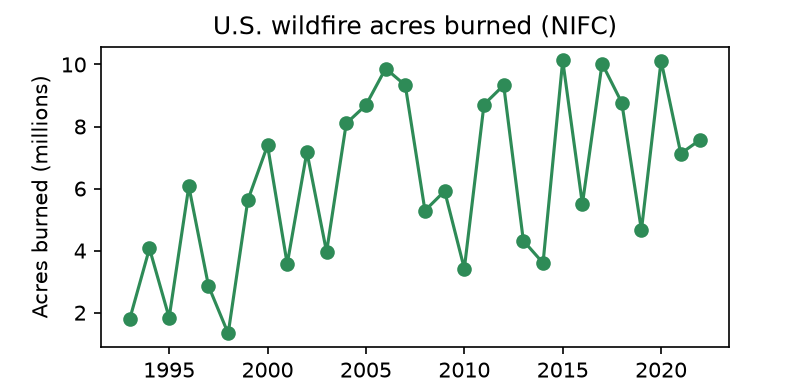
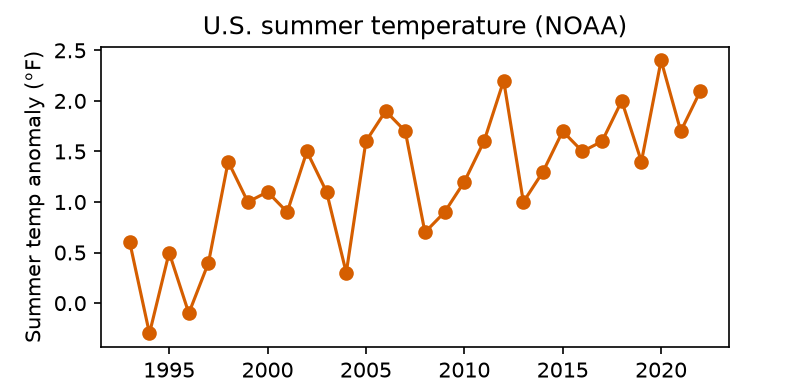
session 06 pm session

diff --git a/week-02-investigation-and-analysis/session-06-planning-a-study-deepening-lit-review/pm/06-pm-datacore.html b/week-02-investigation-and-analysis/session-06-planning-a-study-deepening-lit-review/pm/06-pm-datacore.html
@@ -70,11 +70,11 @@ class: segue-green
 .pull-left[
 .font90[
 **Describing** (what you did all week):
-- "Men earned **\$27.91/hr**, women **\$25.63/hr**."
+- "Men earned **&amp;dollar;27.91/hr**, women **&amp;dollar;25.63/hr**."
 - A fact about *this* sample. No argument yet.
 
 **Inferring** (today):
-- "Is that **\$2.28 gap real** in the wider world &amp;mdash; or just luck of who we sampled?"
+- "Is that **&amp;dollar;2.28 gap real** in the wider world &amp;mdash; or just luck of who we sampled?"
 - A *claim* that could be **wrong**, so we test it.
 ]
 ]
@@ -101,7 +101,7 @@ class: segue-green
 .content-box-green[
 .font80[
 **Confidence interval**&lt;br&gt;
-*"A plausible **range** for the true value."* "The gap is about \$2.30, give or take &amp;mdash; somewhere between \$1 and \$3.50." The range matters more than one number.
+*"A plausible **range** for the true value."* "The gap is about &amp;dollar;2.30, give or take &amp;mdash; somewhere between &amp;dollar;1 and &amp;dollar;3.50." The range matters more than one number.
 ]
 ]
 ]
@@ -116,7 +116,7 @@ Just means *"unlikely to be pure chance"* (small p). It does **NOT** mean big, i
 ]
 
 .content-box-red[
-.font85[<svg aria-hidden="true" role="img" viewBox="0 0 512 512" style="height:1em;width:1em;vertical-align:-0.125em;margin-left:auto;margin-right:auto;font-size:inherit;fill:#fff;overflow:visible;position:relative;"><path d="M256 32c14.2 0 27.3 7.5 34.5 19.8l216 368c7.3 12.4 7.3 27.7 .2 40.1S486.3 480 472 480H40c-14.3 0-27.6-7.7-34.7-20.1s-7-27.8 .2-40.1l216-368C228.7 39.5 241.8 32 256 32zm0 128c-13.3 0-24 10.7-24 24V296c0 13.3 10.7 24 24 24s24-10.7 24-24V184c0-13.3-10.7-24-24-24zm32 224a32 32 0 1 0 -64 0 32 32 0 1 0 64 0z"/></svg> &amp;nbsp; **"Significant" &amp;ne; "large" &amp;ne; "important."** With enough data, a trivial \$0.05 gap can be "significant." Always ask **how big**, not just *is it significant.*]
+.font85[<svg aria-hidden="true" role="img" viewBox="0 0 512 512" style="height:1em;width:1em;vertical-align:-0.125em;margin-left:auto;margin-right:auto;font-size:inherit;fill:#fff;overflow:visible;position:relative;"><path d="M256 32c14.2 0 27.3 7.5 34.5 19.8l216 368c7.3 12.4 7.3 27.7 .2 40.1S486.3 480 472 480H40c-14.3 0-27.6-7.7-34.7-20.1s-7-27.8 .2-40.1l216-368C228.7 39.5 241.8 32 256 32zm0 128c-13.3 0-24 10.7-24 24V296c0 13.3 10.7 24 24 24s24-10.7 24-24V184c0-13.3-10.7-24-24-24zm32 224a32 32 0 1 0 -64 0 32 32 0 1 0 64 0z"/></svg> &amp;nbsp; **"Significant" &amp;ne; "large" &amp;ne; "important."** With enough data, a trivial &amp;dollar;0.05 gap can be "significant." Always ask **how big**, not just *is it significant.*]
 ]
 
 ---
@@ -389,10 +389,33 @@ print(f"p-value:     {p_anova:.4g}")
 ```
 p-value:     1.048e-29
 ```
+]
+.panel[.panel-name[R (base)]
 
-``` python
-print()
+``` r
+*fit &lt;- aov(hourly_wage ~ education, data = wages)  # one-way ANOVA
+summary(fit)
 ```
+
+```
+             Df Sum Sq Mean Sq F value Pr(&gt;F)    
+education     3   3707  1235.6   64.17 &lt;2e-16 ***
+Residuals   216   4159    19.3                   
+---
+Signif. codes:  0 '***' 0.001 '**' 0.01 '*' 0.05 '.' 0.1 ' ' 1
+```
+]
+]
+
+.font80[<svg aria-hidden="true" role="img" viewBox="0 0 512 512" style="height:1em;width:1em;vertical-align:-0.125em;margin-left:auto;margin-right:auto;font-size:inherit;fill:#4a7fb5;overflow:visible;position:relative;"><path d="M256 512A256 256 0 1 0 256 0a256 256 0 1 0 0 512zM216 336h24V272H216c-13.3 0-24-10.7-24-24s10.7-24 24-24h48c13.3 0 24 10.7 24 24v88h8c13.3 0 24 10.7 24 24s-10.7 24-24 24H216c-13.3 0-24-10.7-24-24s10.7-24 24-24zm40-208a32 32 0 1 1 0 64 32 32 0 1 1 0-64z"/></svg> &amp;nbsp; A small p says *"at least one group differs"* &amp;mdash; **not which one.** Next: look at the group means. <svg aria-hidden="true" role="img" viewBox="0 0 448 512" style="height:1em;width:0.88em;vertical-align:-0.125em;margin-left:auto;margin-right:auto;font-size:inherit;fill:#2e8b57;overflow:visible;position:relative;"><path d="M438.6 278.6c12.5-12.5 12.5-32.8 0-45.3l-160-160c-12.5-12.5-32.8-12.5-45.3 0s-12.5 32.8 0 45.3L338.8 224 32 224c-17.7 0-32 14.3-32 32s14.3 32 32 32l306.7 0L233.4 393.4c-12.5 12.5-12.5 32.8 0 45.3s32.8 12.5 45.3 0l160-160z"/></svg>]
+
+---
+### <svg aria-hidden="true" role="img" viewBox="0 0 448 512" style="height:1em;width:0.88em;vertical-align:-0.125em;margin-left:auto;margin-right:auto;font-size:inherit;fill:#2e8b57;overflow:visible;position:relative;"><path d="M160 80c0-26.5 21.5-48 48-48h32c26.5 0 48 21.5 48 48V432c0 26.5-21.5 48-48 48H208c-26.5 0-48-21.5-48-48V80zM0 272c0-26.5 21.5-48 48-48H80c26.5 0 48 21.5 48 48V432c0 26.5-21.5 48-48 48H48c-26.5 0-48-21.5-48-48V272zM368 96h32c26.5 0 48 21.5 48 48V432c0 26.5-21.5 48-48 48H368c-26.5 0-48-21.5-48-48V144c0-26.5 21.5-48 48-48z"/></svg> .b[RcS] &amp;mdash; Which groups differ? Compare the means
+
+.font85[ANOVA told us *at least one* education level differs. To see **the pattern**, look at the mean hourly wage within each group.]
+
+.panelset[
+.panel[.panel-name[Python (scipy)]
 
 ``` python
 print(wages.groupby("education")["hourly_wage"].mean().round(2))
@@ -410,19 +433,6 @@ Name: hourly_wage, dtype: float64
 .panel[.panel-name[R (base)]
 
 ``` r
-*fit &lt;- aov(hourly_wage ~ education, data = wages)  # one-way ANOVA
-summary(fit)
-```
-
-```
-             Df Sum Sq Mean Sq F value Pr(&gt;F)    
-education     3   3707  1235.6   64.17 &lt;2e-16 ***
-Residuals   216   4159    19.3                   
----
-Signif. codes:  0 '***' 0.001 '**' 0.01 '*' 0.05 '.' 0.1 ' ' 1
-```
-
-``` r
 aggregate(hourly_wage ~ education, data = wages, FUN = mean)
 ```
 
@@ -436,7 +446,7 @@ aggregate(hourly_wage ~ education, data = wages, FUN = mean)
 ]
 ]
 
-.font80[<svg aria-hidden="true" role="img" viewBox="0 0 512 512" style="height:1em;width:1em;vertical-align:-0.125em;margin-left:auto;margin-right:auto;font-size:inherit;fill:#4a7fb5;overflow:visible;position:relative;"><path d="M256 512A256 256 0 1 0 256 0a256 256 0 1 0 0 512zM216 336h24V272H216c-13.3 0-24-10.7-24-24s10.7-24 24-24h48c13.3 0 24 10.7 24 24v88h8c13.3 0 24 10.7 24 24s-10.7 24-24 24H216c-13.3 0-24-10.7-24-24s10.7-24 24-24zm40-208a32 32 0 1 1 0 64 32 32 0 1 1 0-64z"/></svg> &amp;nbsp; A small p says *"at least one group differs"* &amp;mdash; **not which one.** Follow up by looking at the group means (the gradient by education is clear here).]
+.font80[<svg aria-hidden="true" role="img" viewBox="0 0 512 512" style="height:1em;width:1em;vertical-align:-0.125em;margin-left:auto;margin-right:auto;font-size:inherit;fill:#4a7fb5;overflow:visible;position:relative;"><path d="M256 512A256 256 0 1 0 256 0a256 256 0 1 0 0 512zM216 336h24V272H216c-13.3 0-24-10.7-24-24s10.7-24 24-24h48c13.3 0 24 10.7 24 24v88h8c13.3 0 24 10.7 24 24s-10.7 24-24 24H216c-13.3 0-24-10.7-24-24s10.7-24 24-24zm40-208a32 32 0 1 1 0 64 32 32 0 1 1 0-64z"/></svg> &amp;nbsp; The gradient by education is clear here &amp;mdash; average wage **rises with each education level.**]
 
 ---
 class: segue-green
@@ -461,11 +471,11 @@ class: segue-green
 .font85[
 **Write one sentence for a policy audience:**
 
-*"Group A earned \$\_\_ more than Group B. This difference **was / was not** statistically significant (p = \_\_), a **small / medium / large** effect."*
+*"Group A earned &amp;dollar;\_\_ more than Group B. This difference **was / was not** statistically significant (p = \_\_), a **small / medium / large** effect."*
 ]
 ]
 
-.center[<div class="countdown" id="timer_398d0742" data-warn-when="30" data-update-every="1" tabindex="0" style="right:0;bottom:0;font-size:2rem;position: relative; display: inline-block; margin: 0.4em auto;">
+.center[<div class="countdown" id="timer_688d596b" data-warn-when="30" data-update-every="1" tabindex="0" style="right:0;bottom:0;font-size:2rem;position: relative; display: inline-block; margin: 0.4em auto;">
 <div class="countdown-controls"><button class="countdown-bump-down">&minus;</button><button class="countdown-bump-up">&plus;</button></div>
 <code class="countdown-time"><span class="countdown-digits minutes">12</span><span class="countdown-digits colon">:</span><span class="countdown-digits seconds">00</span></code>
 </div>]
@@ -514,7 +524,7 @@ plt.title(f"Best-fit line: slope = {b1:.2f}")
 plt.show()
 ```
 
-&lt;img src="06-pm-datacore_files/figure-html/unnamed-chunk-12-1.png" alt="" width="50%" style="display: block; margin: auto;" /&gt;
+&lt;img src="06-pm-datacore_files/figure-html/unnamed-chunk-14-1.png" alt="" width="50%" style="display: block; margin: auto;" /&gt;
 ]
 .panel[.panel-name[R]
 
@@ -525,7 +535,7 @@ plot(wages$experience_years, wages$hourly_wage, col = "#4a7fb5",
        col = "#D55E00", lwd = 2)
 ```
 
-&lt;img src="06-pm-datacore_files/figure-html/unnamed-chunk-13-3.png" alt="" width="50%" style="display: block; margin: auto;" /&gt;
+&lt;img src="06-pm-datacore_files/figure-html/unnamed-chunk-15-3.png" alt="" width="50%" style="display: block; margin: auto;" /&gt;
 ]
 ]
 
@@ -606,7 +616,7 @@ R-squared     = 0.242   -&gt; share of wage variation explained
 ### <svg aria-hidden="true" role="img" viewBox="0 0 512 512" style="height:1em;width:1em;vertical-align:-0.125em;margin-left:auto;margin-right:auto;font-size:inherit;fill:#2e8b57;overflow:visible;position:relative;"><path d="M123.6 391.3c12.9-9.4 29.6-11.8 44.6-6.4c26.5 9.6 56.2 15.1 87.8 15.1c124.7 0 208-80.5 208-160s-83.3-160-208-160S48 160.5 48 240c0 32 12.4 62.8 35.7 89.2c8.6 9.7 12.8 22.5 11.8 35.5c-1.4 18.1-5.7 34.7-11.3 49.4c17-7.9 31.1-16.7 39.4-22.7zM21.2 431.9c1.8-2.7 3.5-5.4 5.1-8.1c10-16.6 19.5-38.4 21.4-62.9C17.7 326.8 0 285.1 0 240C0 125.1 114.6 32 256 32s256 93.1 256 208s-114.6 208-256 208c-37.1 0-72.3-6.4-104.1-17.9c-11.9 8.7-31.3 20.6-54.3 30.6c-15.1 6.6-32.3 12.6-50.1 16.1c-.8 .2-1.6 .3-2.4 .5c-4.4 .8-8.7 1.5-13.2 1.9c-.2 0-.5 .1-.7 .1c-5.1 .5-10.2 .8-15.3 .8c-6.5 0-12.3-3.9-14.8-9.9c-2.5-6-1.1-12.8 3.4-17.4c4.1-4.2 7.8-8.7 11.3-13.5c1.7-2.3 3.3-4.6 4.8-6.9c.1-.2 .2-.3 .3-.5z"/></svg> Say the slope out loud
 
 .content-box-green[
-.font90[<svg aria-hidden="true" role="img" viewBox="0 0 448 512" style="height:1em;width:0.88em;vertical-align:-0.125em;margin-left:auto;margin-right:auto;font-size:inherit;fill:#2e8b57;overflow:visible;position:relative;"><path d="M0 216C0 149.7 53.7 96 120 96h8c17.7 0 32 14.3 32 32s-14.3 32-32 32h-8c-30.9 0-56 25.1-56 56v8h64c35.3 0 64 28.7 64 64v64c0 35.3-28.7 64-64 64H64c-35.3 0-64-28.7-64-64V320 288 216zm256 0c0-66.3 53.7-120 120-120h8c17.7 0 32 14.3 32 32s-14.3 32-32 32h-8c-30.9 0-56 25.1-56 56v8h64c35.3 0 64 28.7 64 64v64c0 35.3-28.7 64-64 64H320c-35.3 0-64-28.7-64-64V320 288 216z"/></svg> &amp;nbsp; *"For every **1 additional year** of experience, hourly wage increases by about **\$0.43**, on average."*]
+.font90[<svg aria-hidden="true" role="img" viewBox="0 0 448 512" style="height:1em;width:0.88em;vertical-align:-0.125em;margin-left:auto;margin-right:auto;font-size:inherit;fill:#2e8b57;overflow:visible;position:relative;"><path d="M0 216C0 149.7 53.7 96 120 96h8c17.7 0 32 14.3 32 32s-14.3 32-32 32h-8c-30.9 0-56 25.1-56 56v8h64c35.3 0 64 28.7 64 64v64c0 35.3-28.7 64-64 64H64c-35.3 0-64-28.7-64-64V320 288 216zm256 0c0-66.3 53.7-120 120-120h8c17.7 0 32 14.3 32 32s-14.3 32-32 32h-8c-30.9 0-56 25.1-56 56v8h64c35.3 0 64 28.7 64 64v64c0 35.3-28.7 64-64 64H320c-35.3 0-64-28.7-64-64V320 288 216z"/></svg> &amp;nbsp; *"For every **1 additional year** of experience, hourly wage increases by about **&amp;dollar;0.43**, on average."*]
 ]
 
 .pull-left[
@@ -622,7 +632,7 @@ R-squared     = 0.242   -&gt; share of wage variation explained
 .content-box-yellow[
 .font80[
 **Significant vs meaningful:**&lt;br&gt;
-\$0.43/yr <svg aria-hidden="true" role="img" viewBox="0 0 448 512" style="height:1em;width:0.88em;vertical-align:-0.125em;margin-left:auto;margin-right:auto;font-size:inherit;fill:#c08a00;overflow:visible;position:relative;"><path d="M438.6 278.6c12.5-12.5 12.5-32.8 0-45.3l-160-160c-12.5-12.5-32.8-12.5-45.3 0s-12.5 32.8 0 45.3L338.8 224 32 224c-17.7 0-32 14.3-32 32s14.3 32 32 32l306.7 0L233.4 393.4c-12.5 12.5-12.5 32.8 0 45.3s32.8 12.5 45.3 0l160-160z"/></svg> ~\$4/hr over a decade. **Is that a lot?** That's the real-world question the p-value can't answer.]
+&amp;dollar;0.43/yr <svg aria-hidden="true" role="img" viewBox="0 0 448 512" style="height:1em;width:0.88em;vertical-align:-0.125em;margin-left:auto;margin-right:auto;font-size:inherit;fill:#c08a00;overflow:visible;position:relative;"><path d="M438.6 278.6c12.5-12.5 12.5-32.8 0-45.3l-160-160c-12.5-12.5-32.8-12.5-45.3 0s-12.5 32.8 0 45.3L338.8 224 32 224c-17.7 0-32 14.3-32 32s14.3 32 32 32l306.7 0L233.4 393.4c-12.5 12.5-12.5 32.8 0 45.3s32.8 12.5 45.3 0l160-160z"/></svg> ~&amp;dollar;4/hr over a decade. **Is that a lot?** That's the real-world question the p-value can't answer.]
 ]
 ]
 
@@ -642,7 +652,7 @@ Look at **P&amp;gt;|t|**. Below 0.05 = unlikely to be chance.
 .content-box-green[
 .font80[
 **Is it meaningful?**&lt;br&gt;
-Look at the **coef** in real units. \$0.45/hr/yr &amp;mdash; would a policymaker act on it?
+Look at the **coef** in real units. &amp;dollar;0.45/hr/yr &amp;mdash; would a policymaker act on it?
 ]
 ]
 ]
@@ -689,7 +699,7 @@ Then discuss: **is the magnitude meaningful**, not just significant?
 ]
 ]
 
-.center[<div class="countdown" id="timer_202f11fc" data-warn-when="30" data-update-every="1" tabindex="0" style="right:0;bottom:0;font-size:2rem;position: relative; display: inline-block; margin: 0.4em auto;">
+.center[<div class="countdown" id="timer_e16daecb" data-warn-when="30" data-update-every="1" tabindex="0" style="right:0;bottom:0;font-size:2rem;position: relative; display: inline-block; margin: 0.4em auto;">
 <div class="countdown-controls"><button class="countdown-bump-down">&minus;</button><button class="countdown-bump-up">&plus;</button></div>
 <code class="countdown-time"><span class="countdown-digits minutes">12</span><span class="countdown-digits colon">:</span><span class="countdown-digits seconds">00</span></code>
 </div>]
@@ -758,7 +768,7 @@ Then read it to a partner who is **not** a statistician. Did they get it?
 ]
 ]
 
-.center[<div class="countdown" id="timer_f0418500" data-warn-when="30" data-update-every="1" tabindex="0" style="right:0;bottom:0;font-size:2rem;position: relative; display: inline-block; margin: 0.4em auto;">
+.center[<div class="countdown" id="timer_65beaf30" data-warn-when="30" data-update-every="1" tabindex="0" style="right:0;bottom:0;font-size:2rem;position: relative; display: inline-block; margin: 0.4em auto;">
 <div class="countdown-controls"><button class="countdown-bump-down">&minus;</button><button class="countdown-bump-up">&plus;</button></div>
 <code class="countdown-time"><span class="countdown-digits minutes">10</span><span class="countdown-digits colon">:</span><span class="countdown-digits seconds">00</span></code>
 </div>]
@@ -837,7 +847,7 @@ plt.title("U.S. summer temperature (NOAA)")
 plt.show()
 ```
 
-&lt;img src="06-pm-datacore_files/figure-html/unnamed-chunk-19-1.png" alt="" width="48%" style="display: block; margin: auto;" /&gt;
+&lt;img src="06-pm-datacore_files/figure-html/unnamed-chunk-21-1.png" alt="" width="48%" style="display: block; margin: auto;" /&gt;
 ]
 .panel[.panel-name[Temp · R]
 
@@ -847,7 +857,7 @@ plot(clim$year, clim$summer_temp_anomaly_F, type = "o", col = "#D55E00",
      main = "U.S. summer temperature (NOAA)")
 ```
 
-&lt;img src="06-pm-datacore_files/figure-html/unnamed-chunk-20-3.png" alt="" width="48%" style="display: block; margin: auto;" /&gt;
+&lt;img src="06-pm-datacore_files/figure-html/unnamed-chunk-22-3.png" alt="" width="48%" style="display: block; margin: auto;" /&gt;
 ]
 .panel[.panel-name[Acres · Python]
 
@@ -858,7 +868,7 @@ plt.title("U.S. wildfire acres burned (NIFC)")
 plt.show()
 ```
 
-&lt;img src="06-pm-datacore_files/figure-html/unnamed-chunk-21-1.png" alt="" width="48%" style="display: block; margin: auto;" /&gt;
+&lt;img src="06-pm-datacore_files/figure-html/unnamed-chunk-23-1.png" alt="" width="48%" style="display: block; margin: auto;" /&gt;
 ]
 .panel[.panel-name[Acres · R]
 
@@ -868,7 +878,7 @@ plot(clim$year, clim$acres_burned_millions, type = "o", col = "#2e8b57",
      main = "U.S. wildfire acres burned (NIFC)")
 ```
 
-&lt;img src="06-pm-datacore_files/figure-html/unnamed-chunk-22-3.png" alt="" width="48%" style="display: block; margin: auto;" /&gt;
+&lt;img src="06-pm-datacore_files/figure-html/unnamed-chunk-24-3.png" alt="" width="48%" style="display: block; margin: auto;" /&gt;
 ]
 ]
 
@@ -948,7 +958,7 @@ plt.title(f"r = {r:.2f}   (slope = {m:.1f}M acres per °F)")
 plt.show()
 ```
 
-&lt;img src="06-pm-datacore_files/figure-html/unnamed-chunk-25-1.png" alt="" width="50%" style="display: block; margin: auto;" /&gt;
+&lt;img src="06-pm-datacore_files/figure-html/unnamed-chunk-27-1.png" alt="" width="50%" style="display: block; margin: auto;" /&gt;
 ]
 .panel[.panel-name[R]
 
@@ -959,7 +969,7 @@ plot(clim$summer_temp_anomaly_F, clim$acres_burned_millions, col = "#4a7fb5",
 abline(fit, col = "#D55E00", lwd = 2)
 ```
 
-&lt;img src="06-pm-datacore_files/figure-html/unnamed-chunk-26-3.png" alt="" width="50%" style="display: block; margin: auto;" /&gt;
+&lt;img src="06-pm-datacore_files/figure-html/unnamed-chunk-28-3.png" alt="" width="50%" style="display: block; margin: auto;" /&gt;
 ]
 ]
 
